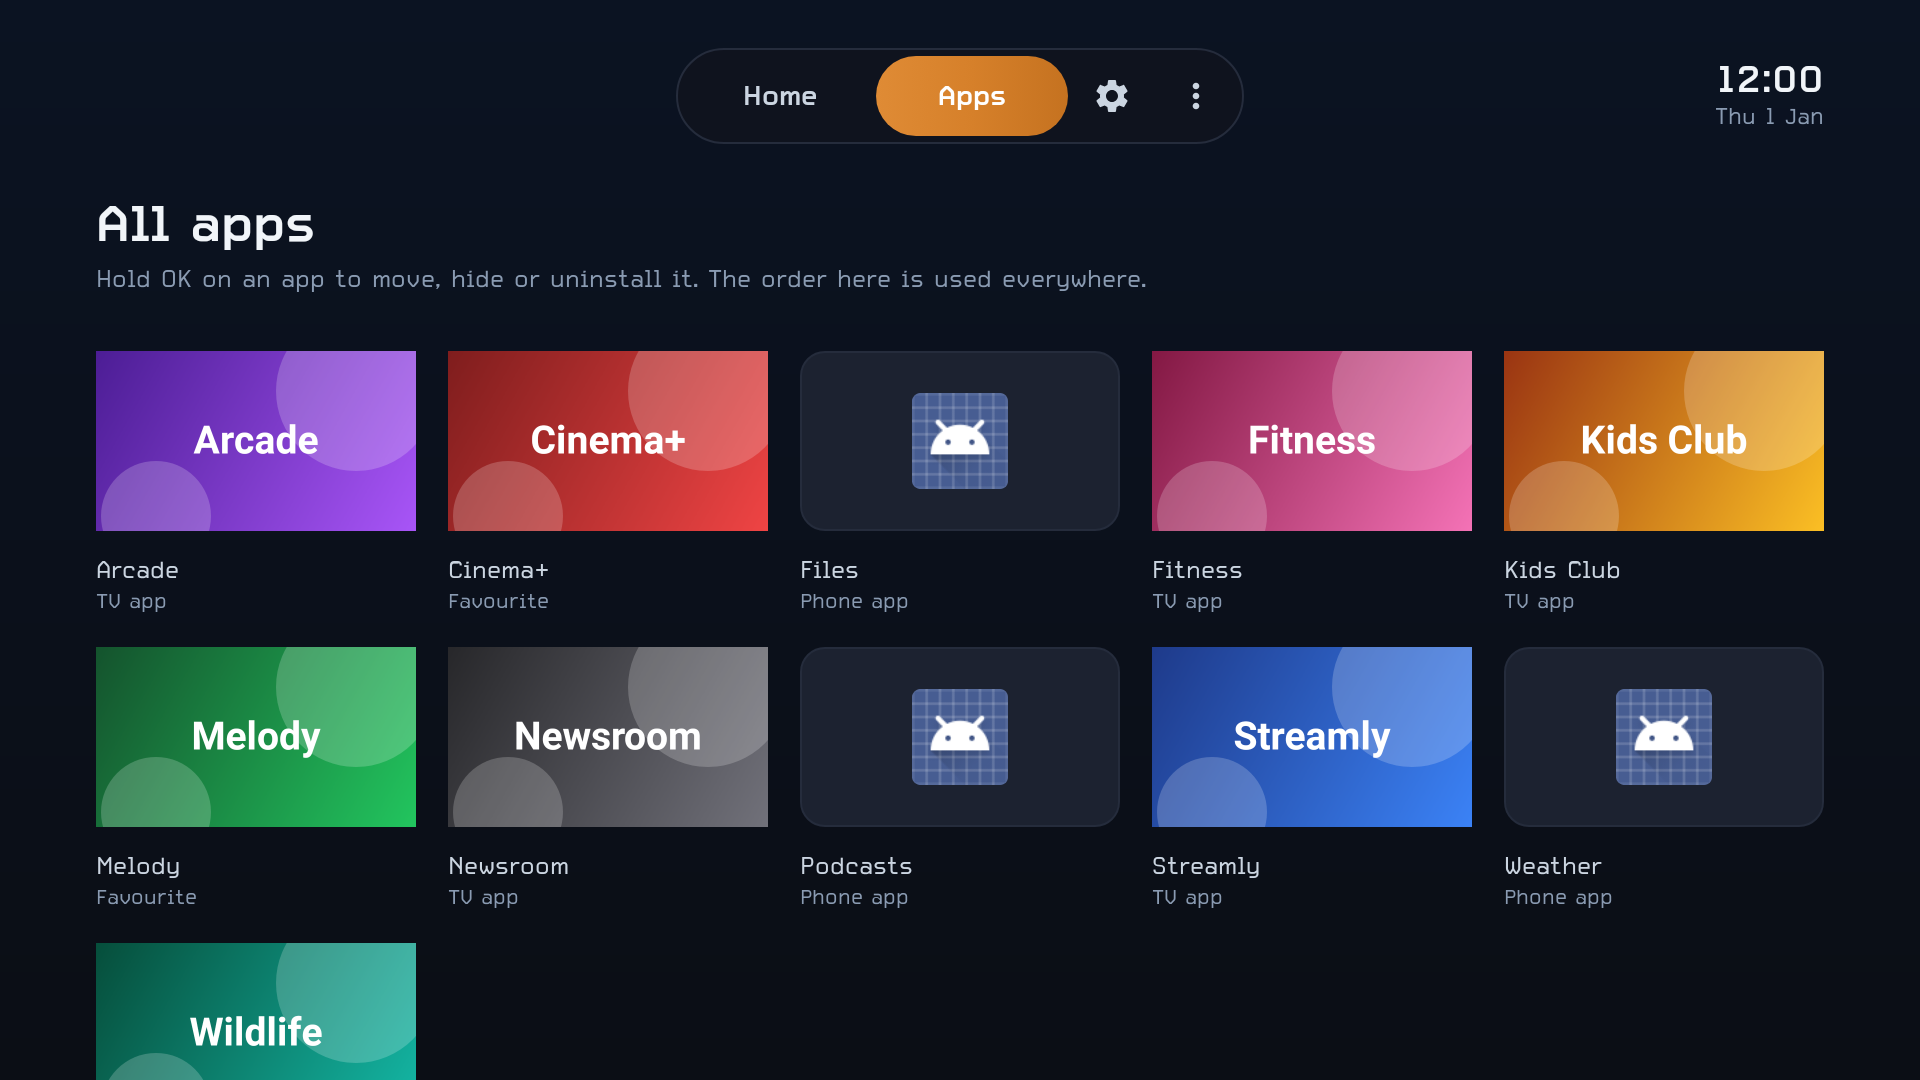
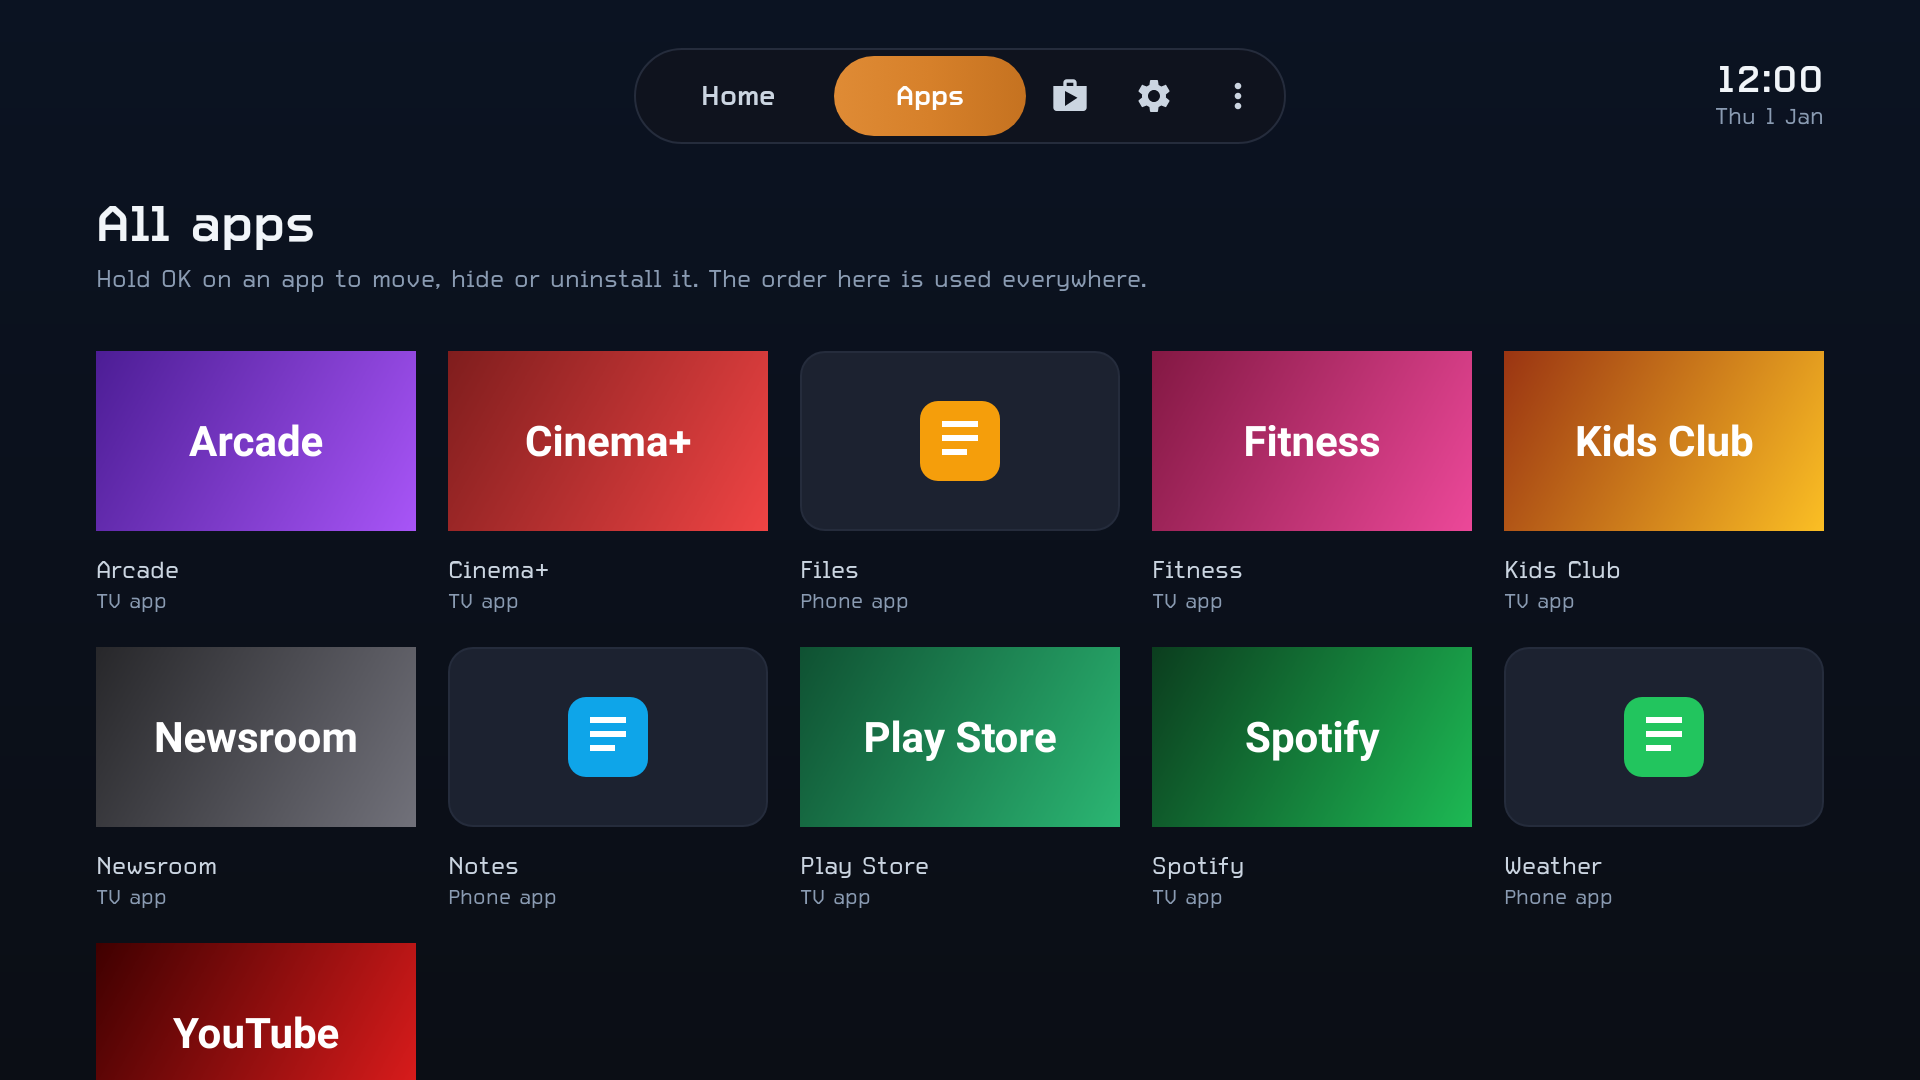
Deco Launcher 2.7: Play Store in the top bar, no Favourites
- A Play Store button (Material "shop" glyph) sits in the tab pill just
  before settings. It opens Google Play's TV screen and only shows when
  the Play Store is installed; it reappears if Play is re-enabled.
- Favourites are gone to keep Home simple: Home has TV apps and Other
  apps, and the card menu is Move (Apps tab), Hide, App info, Uninstall.
- Opening an app by package name (Play Store, the playing app) shares
  one helper.
- README text and screenshots updated.

Claude-Session: https://claude.ai/code/session_01R4jjYX362V9wqDyS12UV2c

diff --git a/launcher/app/src/main/java/com/camdeco/launcher/HomeActivity.java b/launcher/app/src/main/java/com/camdeco/launcher/HomeActivity.java
@@ -50,6 +50,8 @@ import java.util.function.Consumer;
  */
 public class HomeActivity extends Activity implements CardAdapter.Listener {
     static final int COLUMNS = 5;
+    /** Google Play Store, opened from the top bar. */
+    static final String PLAY_STORE = "com.android.vending";
     private static final int PAGE_HOME = 0;
     private static final int PAGE_APPS = 1;
     /** Wait for the remote to settle before swapping the big hero art. */
@@ -96,6 +98,7 @@ public class HomeActivity extends Activity implements CardAdapter.Listener {
     private ImageView npArt;
     private TextView npTitle;
     private ImageButton npPlay;
+    private View storeButton;
 
     private List<AppEntry> allApps = new ArrayList<>();
     private int page = PAGE_HOME;
@@ -108,7 +111,7 @@ public class HomeActivity extends Activity implements CardAdapter.Listener {
 
     private final Runnable heroUpdate = () -> {
         // Follow whichever card has focus now, not the one that asked: the rows can refresh in
-        // between (adding a favourite), and the hero must always match the highlighted card.
+        // between (hiding an app), and the hero must always match the highlighted card.
         AppEntry focused = focusedApp();
         if (focused != null && focused != heroApp && page == PAGE_HOME) showHero(focused);
     };
@@ -212,6 +215,8 @@ public class HomeActivity extends Activity implements CardAdapter.Listener {
         });
         tabHome.setOnClickListener(v -> focusContent());
         tabApps.setOnClickListener(v -> focusContent());
+        storeButton = findViewById(R.id.tab_store);
+        storeButton.setOnClickListener(v -> openPackage(PLAY_STORE));
         findViewById(R.id.tab_settings).setOnClickListener(v -> open(new Intent(Settings.ACTION_SETTINGS)));
         findViewById(R.id.tab_options).setOnClickListener(v -> showLauncherOptions());
 
@@ -276,8 +281,10 @@ public class HomeActivity extends Activity implements CardAdapter.Listener {
         if (loader.isShutdown()) return;
         loader.execute(() -> {
             List<AppEntry> apps = repo.loadAll();
+            boolean hasStore = launchIntent(PLAY_STORE) != null;
             main.post(() -> {
                 if (isDestroyed()) return;
+                storeButton.setVisibility(hasStore ? View.VISIBLE : View.GONE);
                 if (movingPackage != null) endMove();
                 repo.sort(apps);
                 allApps = apps;
@@ -290,28 +297,22 @@ public class HomeActivity extends Activity implements CardAdapter.Listener {
     /** Rebuilds the rows and the grid; refocus keeps focus on the same app. */
     private void showApps(boolean refocus) {
         Set<String> hidden = repo.getHidden();
-        Set<String> favourites = repo.getFavourites();
         List<AppEntry> visible = new ArrayList<>();
-        List<AppEntry> favouriteApps = new ArrayList<>();
         List<AppEntry> tvApps = new ArrayList<>();
         List<AppEntry> otherApps = new ArrayList<>();
         for (AppEntry app : allApps) {
             if (hidden.contains(app.packageName)) continue;
             visible.add(app);
-            if (favourites.contains(app.packageName)) favouriteApps.add(app);
-            else if (app.leanback) tvApps.add(app);
+            if (app.leanback) tvApps.add(app);
             else otherApps.add(app);
         }
         List<RowsAdapter.Row> list = new ArrayList<>();
-        if (!favouriteApps.isEmpty()) {
-            list.add(new RowsAdapter.Row("favourites", getString(R.string.row_favourites), favouriteApps));
-        }
         if (!tvApps.isEmpty()) list.add(new RowsAdapter.Row("tv", getString(R.string.row_tv), tvApps));
         if (!otherApps.isEmpty()) list.add(new RowsAdapter.Row("other", getString(R.string.row_other), otherApps));
 
         String focusedPackage = focusedPackage();
-        rowsAdapter.submit(list, favourites);
-        appsAdapter.submit(visible, favourites);
+        rowsAdapter.submit(list);
+        appsAdapter.submit(visible);
         empty.setVisibility(visible.isEmpty() ? View.VISIBLE : View.GONE);
 
         if (!loaded) {
@@ -586,12 +587,20 @@ public class HomeActivity extends Activity implements CardAdapter.Listener {
             }
         }
         String packageName = nowPlaying.packageName();
-        if (packageName == null) return;
-        PackageManager pm = getPackageManager();
-        Intent launch = pm.getLeanbackLaunchIntentForPackage(packageName);
-        if (launch == null) launch = pm.getLaunchIntentForPackage(packageName);
+        if (packageName != null) openPackage(packageName);
+    }
+
+    /** Opens an app by package name: its TV screen if it has one, else its phone one. */
+    private void openPackage(String packageName) {
+        Intent launch = launchIntent(packageName);
         if (launch != null) open(launch);
         else showHint(R.string.cannot_open);
+    }
+
+    private Intent launchIntent(String packageName) {
+        PackageManager pm = getPackageManager();
+        Intent launch = pm.getLeanbackLaunchIntentForPackage(packageName);
+        return launch != null ? launch : pm.getLaunchIntentForPackage(packageName);
     }
 
     // ---- Cards ----
@@ -606,11 +615,8 @@ public class HomeActivity extends Activity implements CardAdapter.Listener {
 
     @Override
     public void onOptions(AppEntry app) {
-        boolean favourite = repo.getFavourites().contains(app.packageName);
         List<String> labels = new ArrayList<>();
         List<Runnable> actions = new ArrayList<>();
-        labels.add(getString(favourite ? R.string.option_remove_favourite : R.string.option_add_favourite));
-        actions.add(() -> toggleFavourite(app));
         if (page == PAGE_APPS) {
             labels.add(getString(R.string.option_move));
             actions.add(() -> startMove(app));
@@ -622,17 +628,6 @@ public class HomeActivity extends Activity implements CardAdapter.Listener {
         labels.add(getString(R.string.option_uninstall));
         actions.add(() -> open(new Intent(Intent.ACTION_DELETE, packageUri(app))));
         Sheet.pick(this, app.label, null, labels, which -> actions.get(which).run());
-    }
-
-    private void toggleFavourite(AppEntry app) {
-        Set<String> favourites = repo.getFavourites();
-        boolean adding = favourites.add(app.packageName);
-        if (!adding) favourites.remove(app.packageName);
-        repo.setFavourites(favourites);
-        showApps(false);
-        focusApp(app.packageName); // follow the card into (or out of) the Favourites row
-        if (heroApp == app) showHero(app);
-        showHint(adding ? R.string.favourite_added : R.string.favourite_removed);
     }
 
     private void hide(AppEntry app) {

diff --git a/launcher/app/src/test/java/com/camdeco/launcher/HomeActivityTest.java b/launcher/app/src/test/java/com/camdeco/launcher/HomeActivityTest.java
@@ -114,25 +114,6 @@ public class HomeActivityTest {
     }
 
     @Test
-    public void heroMatchesTheHighlightedCardAfterAddingAFavourite() throws Exception {
-        HomeActivity home = start().get();
-        card(home, 0, 2).requestFocus(); // YouTube
-        idle();
-        card(home, 0, 2).performLongClick();
-        choose("Add to Favourites");
-        idle();
-        AppEntry highlighted = (AppEntry) focus(home).getTag(R.id.tag_app);
-        assertEquals(YOUTUBE, highlighted.packageName);
-        assertEquals(highlighted, home.heroApp);
-
-        card(home, 0, 0).performLongClick();
-        choose("Remove from Favourites");
-        idle();
-        highlighted = (AppEntry) focus(home).getTag(R.id.tag_app);
-        assertEquals(highlighted, home.heroApp);
-    }
-
-    @Test
     public void heroFollowsWhenTheHighlightedCardChangesApp() throws Exception {
         HomeActivity home = start().get(); // Netflix highlighted
         card(home, 0, 0).performLongClick();
@@ -142,21 +123,6 @@ public class HomeActivityTest {
         AppEntry highlighted = (AppEntry) focus(home).getTag(R.id.tag_app);
         assertEquals(PRIME, highlighted.packageName);
         assertEquals(PRIME, home.heroApp.packageName);
-    }
-
-    @Test
-    public void favouritesGetTheirOwnFirstRow() throws Exception {
-        HomeActivity home = start().get();
-        card(home, 0, 2).performLongClick(); // YouTube
-        choose("Add to Favourites");
-        assertEquals(List.of("Favourites: [" + YOUTUBE + "]", "TV apps: [" + NETFLIX + ", " + PRIME + "]",
-                "Other apps: [" + VLC + "]"), rows(home));
-        assertEquals(card(home, 0, 0), focus(home)); // focus followed the card
-
-        card(home, 0, 0).performLongClick();
-        choose("Remove from Favourites");
-        assertEquals(List.of("TV apps: [" + NETFLIX + ", " + PRIME + ", " + YOUTUBE + "]",
-                "Other apps: [" + VLC + "]"), rows(home));
     }
 
     @Test
@@ -202,10 +168,35 @@ public class HomeActivityTest {
     }
 
     @Test
-    public void moveIsOnlyOfferedOnTheAppsPage() throws Exception {
+    public void theCardMenuIsSimple() throws Exception {
         HomeActivity home = start().get();
         card(home, 0, 0).performLongClick();
-        assertFalse(sheetItems().contains("Move"));
+        // No Favourites, and Move is only offered on the Apps page.
+        assertEquals(List.of("Hide", "App info", "Uninstall"), sheetItems());
+    }
+
+    @Test
+    public void playStoreSitsInTheTopBarBeforeSettings() throws Exception {
+        HomeActivity home = start().get();
+        View store = home.findViewById(R.id.tab_store);
+        View settings = home.findViewById(R.id.tab_settings);
+        assertEquals(View.GONE, store.getVisibility()); // not installed
+
+        installApp(HomeActivity.PLAY_STORE, "Google Play Store", Intent.CATEGORY_LEANBACK_LAUNCHER);
+        RuntimeEnvironment.getApplication().sendBroadcast(new Intent(Intent.ACTION_PACKAGE_ADDED,
+                Uri.parse("package:" + HomeActivity.PLAY_STORE)));
+        waitFor(() -> store.getVisibility() == View.VISIBLE);
+        LinearLayout tabs = home.findViewById(R.id.tabs);
+        assertEquals(tabs.indexOfChild(settings) - 1, tabs.indexOfChild(store));
+
+        // Left of settings on the remote; OK opens the Play Store.
+        settings.requestFocus();
+        assertEquals(store, settings.focusSearch(View.FOCUS_LEFT));
+        store.requestFocus();
+        press(home, KeyEvent.KEYCODE_DPAD_CENTER);
+        Intent started = shadowOf(home).getNextStartedActivity();
+        assertNotNull(started);
+        assertEquals(HomeActivity.PLAY_STORE, started.getComponent().getPackageName());
     }
 
     @Test

diff --git a/launcher/app/src/main/java/com/camdeco/launcher/CardAdapter.java b/launcher/app/src/main/java/com/camdeco/launcher/CardAdapter.java
@@ -10,9 +10,7 @@ import android.widget.TextView;
 import androidx.recyclerview.widget.RecyclerView;
 
 import java.util.ArrayList;
-import java.util.Collections;
 import java.util.List;
-import java.util.Set;
 
 /** App cards, used both in the Home rows and in the Apps grid. */
 final class CardAdapter extends RecyclerView.Adapter<CardAdapter.Holder> {
@@ -31,7 +29,6 @@ final class CardAdapter extends RecyclerView.Adapter<CardAdapter.Holder> {
     private final Listener listener;
     /** Grid cells stretch to their column; row cards keep their fixed width. */
     private final boolean fillWidth;
-    private Set<String> favourites = Collections.emptySet();
     private String movingPackage;
 
     CardAdapter(Listener listener, boolean fillWidth) {
@@ -40,10 +37,9 @@ final class CardAdapter extends RecyclerView.Adapter<CardAdapter.Holder> {
         setHasStableIds(true); // lets the grid keep focus on the same app across reloads
     }
 
-    void submit(List<AppEntry> list, Set<String> favourites) {
+    void submit(List<AppEntry> list) {
         apps.clear();
         apps.addAll(list);
-        this.favourites = favourites;
         notifyDataSetChanged();
     }
 
@@ -136,15 +132,14 @@ final class CardAdapter extends RecyclerView.Adapter<CardAdapter.Holder> {
         }
         holder.title.setText(app.label);
         int subtitle = moving ? R.string.moving
-                : favourites.contains(app.packageName) ? R.string.kind_favourite
                 : app.leanback ? R.string.kind_tv : R.string.kind_phone;
         holder.subtitle.setText(subtitle);
         // A recycled view may still carry the focus lift of the app it showed before.
         boolean focused = view.isFocused();
         holder.card.setScaleX(focused ? FOCUS_SCALE : 1f);
         holder.card.setScaleY(focused ? FOCUS_SCALE : 1f);
-        // The focused card can be given a different app when the rows refresh (adding a
-        // favourite, say). Focus doesn't move, so tell the listener; else the hero shows the old app.
+        // The focused card can be given a different app when the rows refresh (hiding an
+        // app, say). Focus doesn't move, so tell the listener; else the hero shows the old app.
         if (focused) listener.onCardFocused(view, app, true);
     }
 

diff --git a/launcher/app/src/main/java/com/camdeco/launcher/RowsAdapter.java b/launcher/app/src/main/java/com/camdeco/launcher/RowsAdapter.java
@@ -10,9 +10,7 @@ import androidx.leanback.widget.HorizontalGridView;
 import androidx.recyclerview.widget.RecyclerView;
 
 import java.util.ArrayList;
-import java.util.Collections;
 import java.util.List;
-import java.util.Set;
 
 /** The Home page: titled rows, each a sideways-scrolling line of app cards. */
 final class RowsAdapter extends RecyclerView.Adapter<RowsAdapter.Holder> {
@@ -32,17 +30,15 @@ final class RowsAdapter extends RecyclerView.Adapter<RowsAdapter.Holder> {
     private final List<Row> rows = new ArrayList<>();
     private final CardAdapter.Listener listener;
     private final RecyclerView.RecycledViewPool cardPool = new RecyclerView.RecycledViewPool();
-    private Set<String> favourites = Collections.emptySet();
 
     RowsAdapter(CardAdapter.Listener listener) {
         this.listener = listener;
         setHasStableIds(true);
     }
 
-    void submit(List<Row> list, Set<String> favourites) {
+    void submit(List<Row> list) {
         rows.clear();
         rows.addAll(list);
-        this.favourites = favourites;
         notifyDataSetChanged();
     }
 
@@ -81,7 +77,7 @@ final class RowsAdapter extends RecyclerView.Adapter<RowsAdapter.Holder> {
     public void onBindViewHolder(Holder holder, int position) {
         Row row = rows.get(position);
         holder.title.setText(row.title);
-        holder.cards.submit(row.apps, favourites);
+        holder.cards.submit(row.apps);
     }
 
     static final class Holder extends RecyclerView.ViewHolder {

diff --git a/launcher/app/src/main/java/com/camdeco/launcher/AppRepository.java b/launcher/app/src/main/java/com/camdeco/launcher/AppRepository.java
@@ -22,11 +22,10 @@ import java.util.List;
 import java.util.Map;
 import java.util.Set;
 
-/** Finds launchable apps and remembers the order, favourites and hidden apps. */
+/** Finds launchable apps and remembers the order and hidden apps. */
 final class AppRepository {
     private static final String KEY_ORDER = "order";
     private static final String KEY_HIDDEN = "hidden";
-    private static final String KEY_FAVOURITES = "favourites";
     private static final String KEY_SHOW_ART = "show_art";
 
     private final Context context;
@@ -127,14 +126,6 @@ final class AppRepository {
 
     void setHidden(Set<String> hidden) {
         putList(KEY_HIDDEN, new ArrayList<>(hidden));
-    }
-
-    Set<String> getFavourites() {
-        return new LinkedHashSet<>(getList(KEY_FAVOURITES));
-    }
-
-    void setFavourites(Set<String> favourites) {
-        putList(KEY_FAVOURITES, new ArrayList<>(favourites));
     }
 
     /** Whether streaming apps fill the hero with their shows (needs the internet). On by default. */

diff --git a/launcher/README.md b/launcher/README.md
@@ -52,18 +52,17 @@ family's white ring, and the cyan, green and yellow dots are the family's accent
 
 ## What it does
 
-- **Home tab:** a **Favourites** row (once you add some), then **TV apps** and **Other apps**
-  (phone apps)
+- **Home tab:** two rows, **TV apps** and **Other apps** (phone apps)
 - **Mini player** in the top bar while something plays (see [Now playing](#now-playing))
 - **Streaming apps show their shows:** focus Netflix, Disney+, Prime Video, HBO Max, Hulu,
   Apple TV, Paramount+ or Peacock and the hero fills with that service's shows, changing every
   8 seconds (see [Show artwork](#show-artwork))
 - **Apps tab:** every app in a 5-column grid. The order you set here is used everywhere.
 - **Hold OK on a card** (or press Menu on remotes that have one):
-  - **Add to / Remove from Favourites**
   - **Move** (Apps tab): use the arrows to slide the card, then press OK
   - **Hide**, **App info**, **Uninstall**
-- **⚙** opens Android TV settings. **⋮** has hidden apps, Now playing setup, show artwork on/off
+- **Play Store** (the bag icon) opens Google Play; it only shows when the Play Store is
+  installed. **⚙** opens Android TV settings. **⋮** has hidden apps, Now playing setup, show artwork on/off
   and Home button setup.
 - **Up** from the top row, or **Back** from anywhere, goes to the tabs. Back on the Apps tab goes
   to Home. Focus coming up from the cards always lands on the current tab.
@@ -74,7 +73,7 @@ family's white ring, and the cyan, green and yellow dots are the family's accent
 ## Now playing
 
 While Spotify, YouTube (or any app with standard media controls) is playing or paused, a small
-player appears in the top bar, after Home / Apps / ⚙ / ⋮: the cover, "title · artist", play/pause
+player appears in the top bar, after Home / Apps / Play Store / ⚙ / ⋮: the cover, "title · artist", play/pause
 and next. OK on the cover opens the player. On the player, and on the playing app's own card, the
 hero shows what's playing: Spotify's cover as a large card with its blur filling the screen, or a
 YouTube video's thumbnail full-screen.
@@ -187,7 +186,7 @@ apps and keep working; the script checks them.
 ## Updating
 
 Download the latest APK again and install it over the old one with `adb install -r DecoLauncher.apk`.
-Favourites, hidden apps and the order are kept.
+Hidden apps and the order are kept.
 
 Android only installs an update that is signed with the same key as the version already on the TV.
 Every build on the `launcher-latest` release is signed with the same key, so they install over each
@@ -196,7 +195,7 @@ the signing key was set up) used a different key.
 
 If the TV says **"package conflicts with an existing package"** (or adb says
 `INSTALL_FAILED_UPDATE_INCOMPATIBLE`), the copy on the TV has a different key. Replace it once,
-making sure the TV keeps a home screen meanwhile (this resets favourites, hidden apps and the order):
+making sure the TV keeps a home screen meanwhile (this resets hidden apps and the order):
 
 ```bash
 adb shell pm enable com.google.android.apps.tv.launcherx   # a home screen while Deco is away
